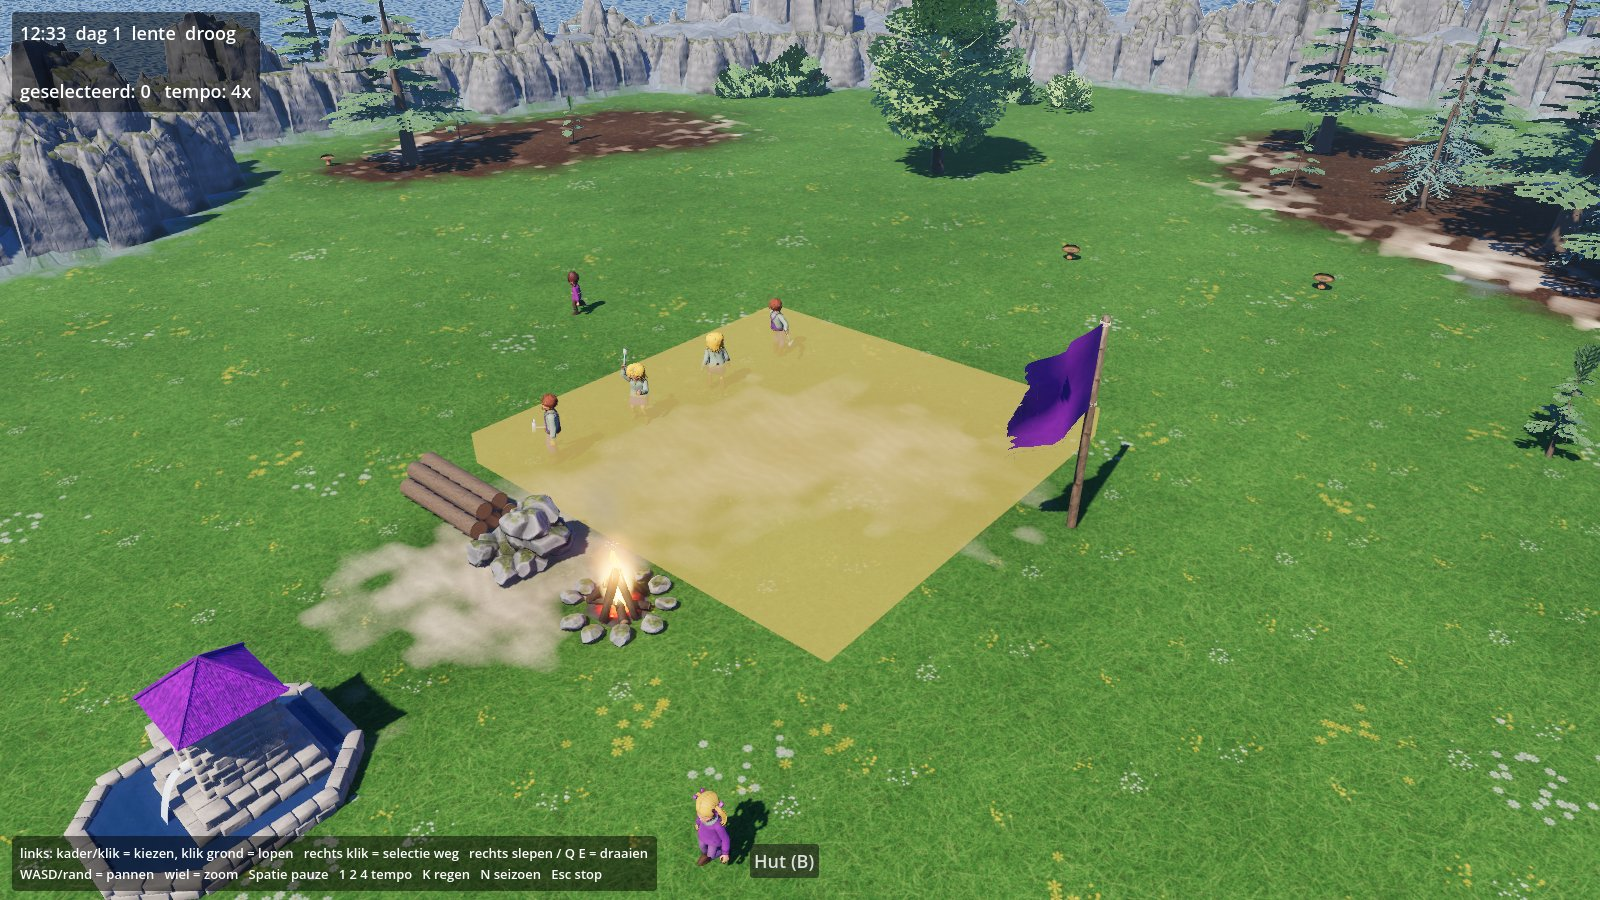
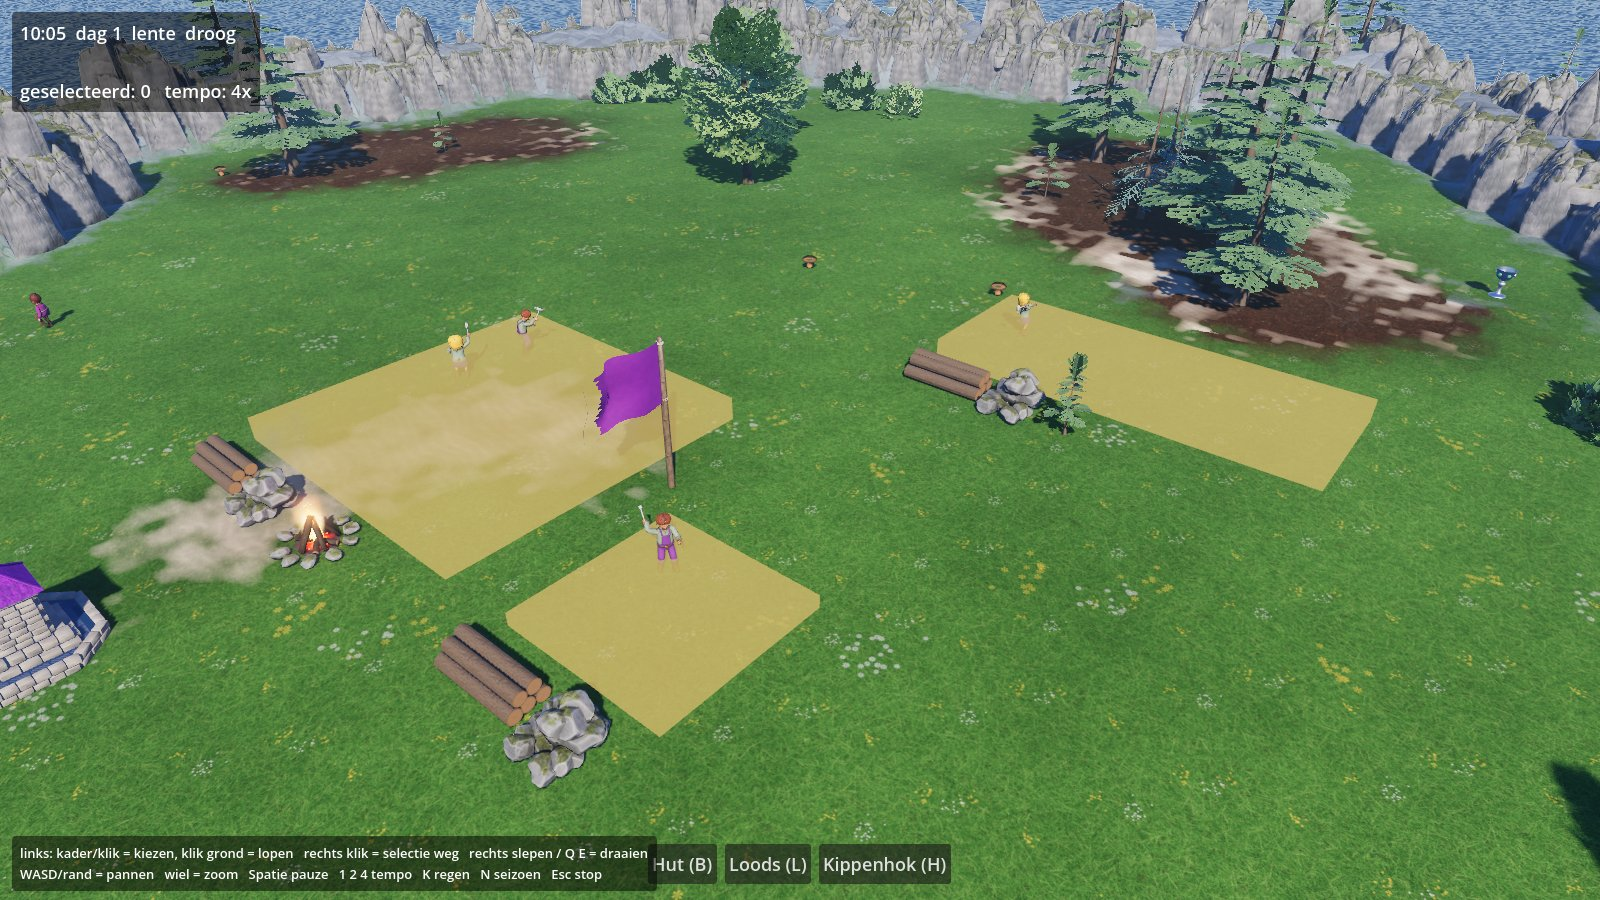
Beasts & Bumpkins-remake: gereedschapsloods en kippenhok in het bouwmenu
Knoppen per gebouw (B/L/H), voetafdruk 5x2 en 2x2 uit de glb op ware grootte,
mensendeur schaalt op 1,15x volwassene; scenario bouw zet alle drie neer.

Claude-Session: https://claude.ai/code/session_0151pWCWHCzH6TWJgc2h9cMZ

diff --git a/docs/beasts-bumpkins-remake/spel/README.md b/docs/beasts-bumpkins-remake/spel/README.md
@@ -34,6 +34,7 @@ Opties na `--`: `--seizoen=lente|zomer|herfst|winter`, `--uur=12`, `--tempo=2`, 
 | WASD/pijlen, schermrand | pannen (begrensd tot het eiland) |
 | wiel | zoomen (2 m tot eilandoverzicht) |
 | Spatie, 1 / 2 / 4 | pauze, tempo 1x/2x/4x |
+| B / L / H, R, Esc | bouwen: hut / loods / kippenhok, draaien, stoppen |
 | K, N | regen automatisch/aan/uit, volgend seizoen (debug) |
 
 Lopen kan iedereen; vechten en werken alleen volwassenen (`Wereld.geef_bevel`, nog zonder invoer en zonder gedrag).
@@ -60,7 +61,7 @@ stronken) is ALLEEN weergave: de sim leest het niet en geen tegel wordt erdoor g
 texturensets (Texture2DArray, 2,8 m per herhaling) uit de hoekgewichten van `TerreinView._splat()`. De koe (klasse 171) komt uit `view/koe.gd`
 (pad, verborgen onderdelen en animatienaam staan alleen daar; nieuwe glb = sync + import). Seizoen: `Natuur.werk_seizoen()` (tint, rotssneeuw) en
 `TerreinView.zet_sneeuwlaag()` (winter), aangeroepen vanuit `WereldView.werk_seizoen()`.
-Scenario's voor frames: overzicht, dorp, selectie, pad, loop, vlag, bos, rots, koe, bouw (hut naast het kampvuur, 4x). De oude blokjes-placeholders in `props.gd` zijn alleen nog terugval als een glb ontbreekt.
+Scenario's voor frames: overzicht, dorp, selectie, pad, loop, vlag, bos, rots, koe, bouw (hut, loods en kippenhok naast het kampvuur, 4x). De oude blokjes-placeholders in `props.gd` zijn alleen nog terugval als een glb ontbreekt.
 Uiterlijk per dorpeling: `Bumpkin.glb_voor(geslacht, leeftijd)` kiest een van de zes glb's (man, vrouw, jongen, meisje, oudere man/vrouw; kinderen zijn al 1,11 m in de glb). `sex` 13 = jongen, 14 = meisje is een aanname (niet geverifieerd). Ontbreekt een glb: de man (kind op 0,81x).
-Bouwplaats: houtstapel en steenhoop naast het plan slinken tot 35 % met de voortgang; klaar = `peasant_hut_rt.glb`, geschaald op de voordeur: 1,15x de langste volwassene (1,37 m) = 1,58 m, dat is de glb op ware grootte; voetafdruk dus 4x4 tegels (7,6 x 7,1 m incl. hek). Die glb (25 MB) staat niet in git: `blender -b -P ../modellen/peasant_hut_realtime.py`, anders blijft het een bruine kist.
+Bouwplaats: houtstapel en steenhoop naast het plan slinken tot 35 % met de voortgang; bouwmenu: hut (B), gereedschapsloods (L, 5x2) en kippenhok (H, 2x2), `Bouwmenu.GEBOUWEN` + `Wereld.BOUWSOORTEN`; glb's op ware grootte, een mensendeur schaalt. Hut klaar = `peasant_hut_rt.glb`, geschaald op de voordeur: 1,15x de langste volwassene (1,37 m) = 1,58 m, dat is de glb op ware grootte; voetafdruk dus 4x4 tegels (7,6 x 7,1 m incl. hek). Die glb (25 MB) staat niet in git: `blender -b -P ../modellen/peasant_hut_realtime.py`, anders blijft het een bruine kist.
 Hoogte (rotsboog, strand) is alleen weergave; de sim is plat.

diff --git a/TODO.md b/TODO.md
@@ -8,7 +8,7 @@ want die kunnen alleen op een telefoon of emulator opgenomen worden.
 Beasts & Bumpkins-remake (`docs/beasts-bumpkins-remake/`, stand in de README daar; originele data lokaal in `lokaal/`, niet in git):
 
 1. **Spellogica missie 1** in `spel/sim/`: economie, werk, bouwen, koe-generator (object 171), winnen bij 6 dorpelingen + 4 koeien, verliezen onder 2 — naar `missies.md` en `gameplay.md` §7. Bouwen staat (2026-10-29, `view/bouwmenu.gd` + `Plan` in `sim/`): menu/ghost, selectie + klik op een plan = bouwbevel, 60 werker-seconden, hamerlus, kist groeit in 4 standen en wordt bruin, voetafdruk blokkeert. Nog open: **houtstapel/steenhoop (modellen bestaan) bij de bouwplaats zetten, plus een zaagclip naast de hamerclip voor de bouwer** (besluit 2026-10-29, nostalgie; concept/modellen zijn er al, alleen de clip en de plaatsing ontbreken; eerst concept voor de hut in 4 standen, zie punt 3). Sinds 2026-10-29 avond: houtstapel/steenhoop staan naast het plan en slinken, klaar = de hut-glb (`--scenario=bouw`). Nog open: **zaagclip naast de hamerclip** (Blender, `bumpkin_basis.py`-acties) (hut sinds 2026-10-29 op deurmaat: 4x4 tegels). Niet door mij gespeeld, alleen headless/frames.
-2. **Modellen in het spel**: de zes personages staan erin (2026-10-29, `Bumpkin.glb_voor`; sex 13 = jongen, 14 = meisje aangenomen). Nog: loods/molen/melkerij/kippenhok (`modellen/gebouwen/`, wachten op bouwsoorten), koe met `koe_vacht.gdshader`. Eerst het rieten dak van melkerij en kippenhok opnieuw bakken (dakschil niet als bakbron; nu bruin met strepen).
+2. **Modellen in het spel**: de zes personages staan erin (2026-10-29, `Bumpkin.glb_voor`; sex 13 = jongen, 14 = meisje aangenomen). Loods en kippenhok staan in het bouwmenu (2026-10-29). Nog: molen, melkerij (`modellen/gebouwen/`), koe met `koe_vacht.gdshader`. Eerst het rieten dak van melkerij en kippenhok opnieuw bakken (dakschil niet als bakbron; nu bruin met strepen).
 3. **Conceptronde 3 afmaken** (Chrome eerst herstarten): voetsoldatengilde staat in `lokaal/concept/` (gebruiker moet hem nog beoordelen), dan boogschuttersgilde, stadhuis, brouwerij, draagprops. **Bouwplaats: geen nieuw concept voor stapels, gereedschap of bouwer**: die bestaan al (ronde 2: `dorpsprops` = kampvuur/houtstapel/steenhoop, `bouwgereedschap` = zaag + pikhouweel, ronde 1: `bouwer`; modellen `modellen/natuur/houtstapel.glb`, `steenhoop.glb`). Alleen de **hut in 4 bouwstanden** heeft nog geen concept. Bakkerij = molen, bouwersgilde = gereedschapsloods.
 
 ## 1. Gameplay-video's van de Android-games
